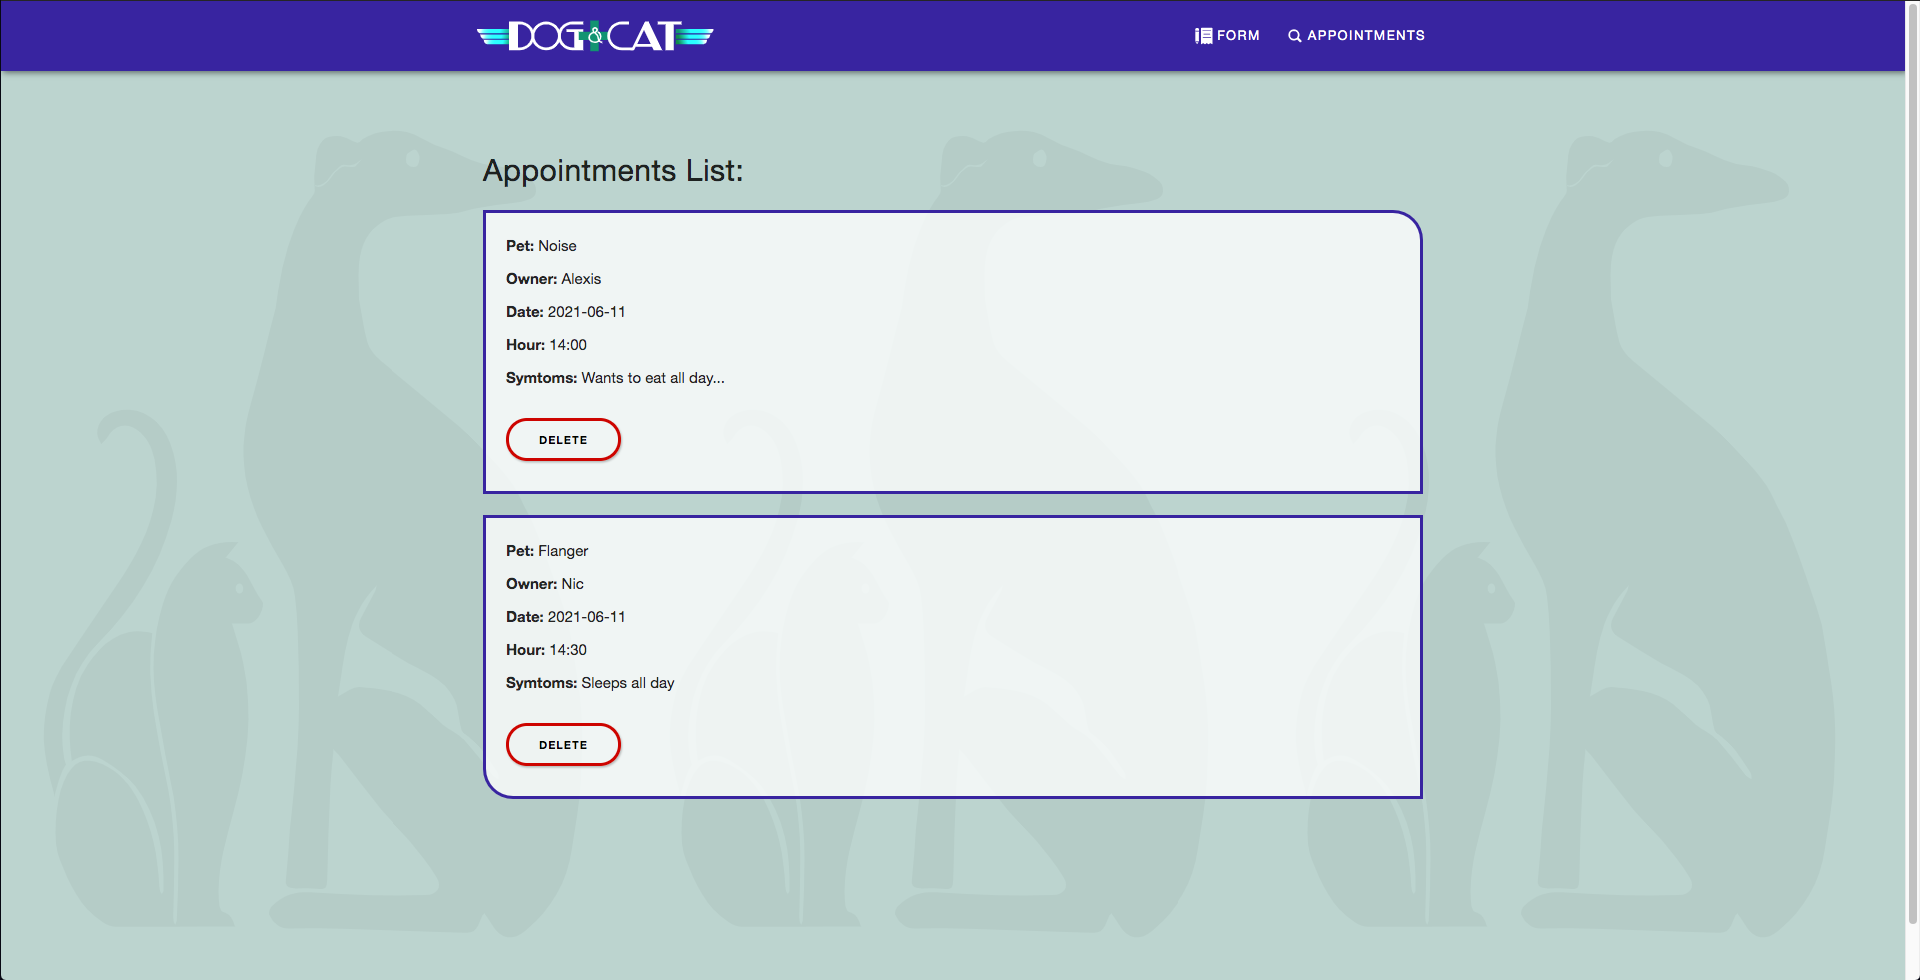
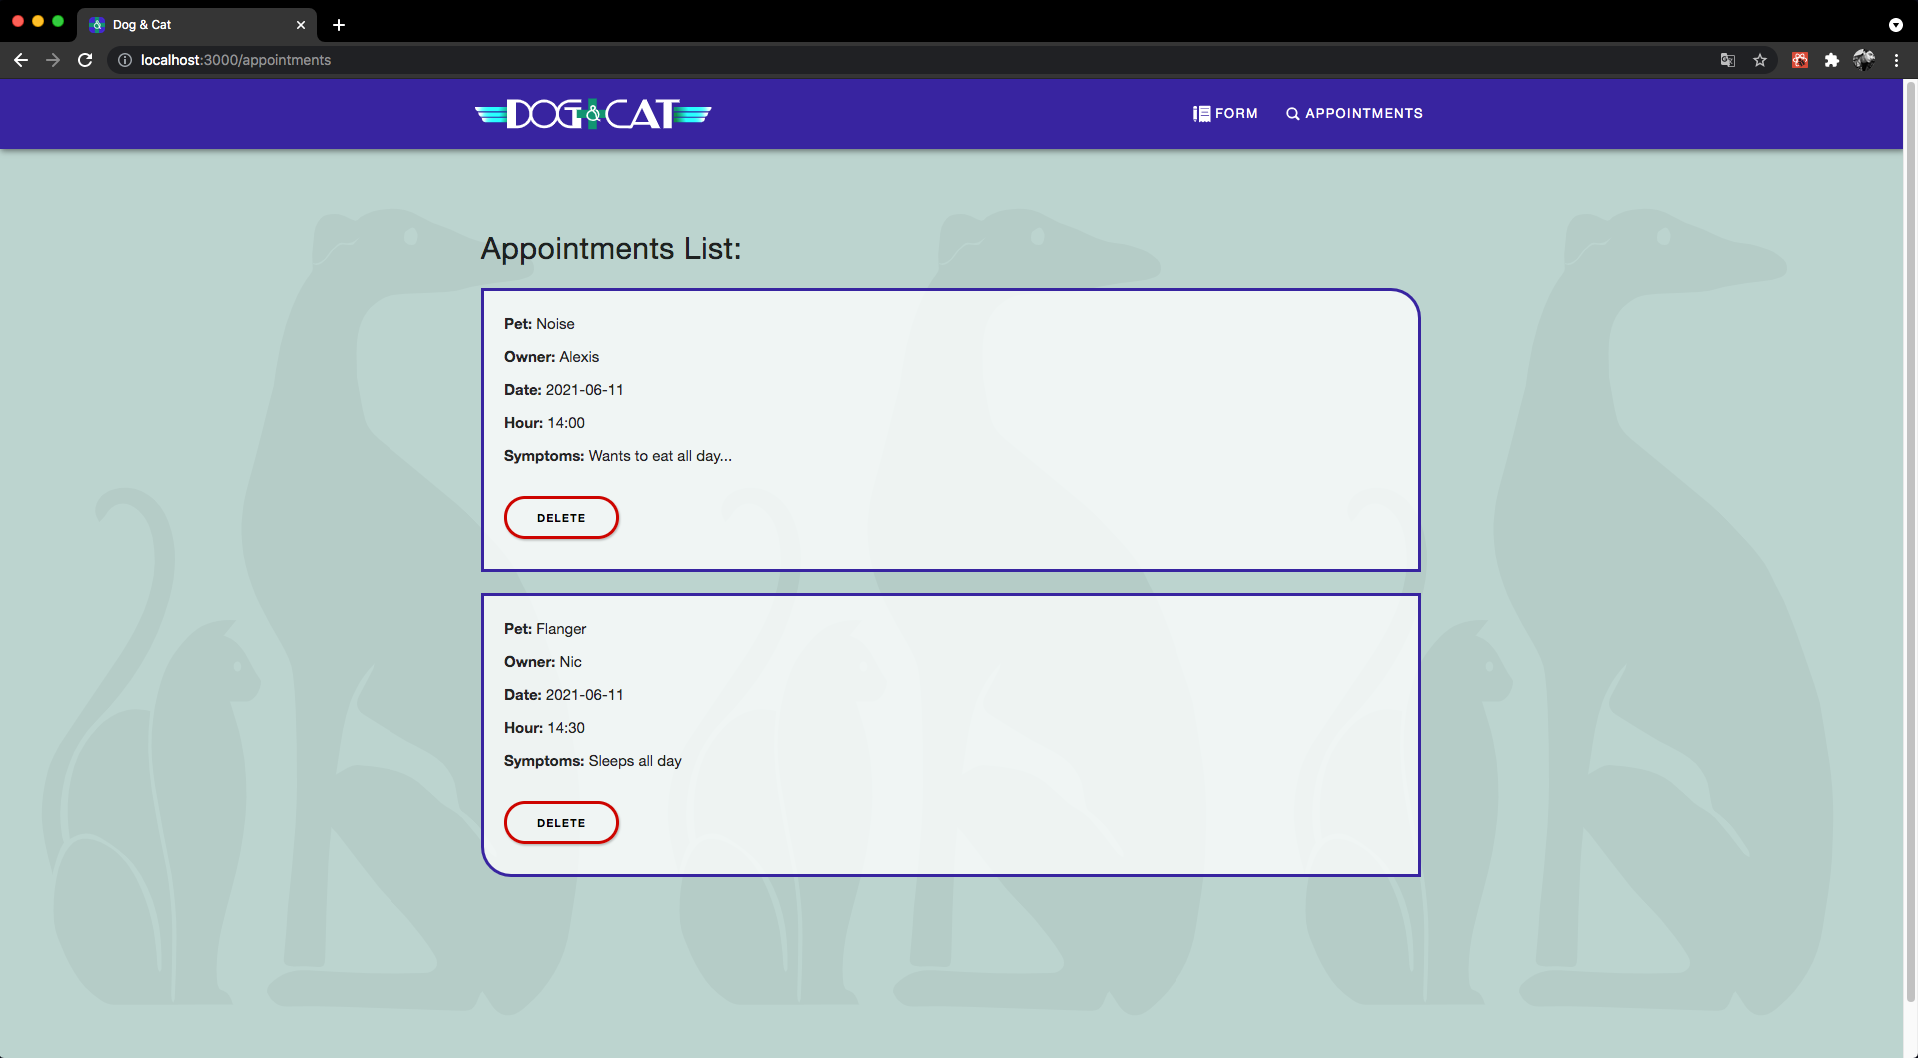
Final commit

Changed region(s): [[0.0, 0.0, 1.0, 0.1837], [0.2461, 0.2143, 0.769, 0.8265]]

diff --git a/src/components/Cita.js b/src/components/Cita.js
@@ -15,7 +15,7 @@ const Cita = ({ cita, eliminarCita }) => (
       Hour: <span>{cita.hora}</span>{" "}
     </p>
     <p>
-      Symtoms: <span>{cita.sintomas}</span>{" "}
+      Symptoms: <span>{cita.sintomas}</span>{" "}
     </p>
 
     <button className="button eliminar " onClick={() => eliminarCita(cita.id)}>

diff --git a/src/components/Formulario.js b/src/components/Formulario.js
@@ -97,7 +97,7 @@ const Formulario = ({ crearCita }) => {
           onChange={actualizarState}
           value={hora}
         />
-        <label>Symtoms</label>
+        <label>Symptoms</label>
         <textarea
           className="u-full-width"
           name="sintomas"
